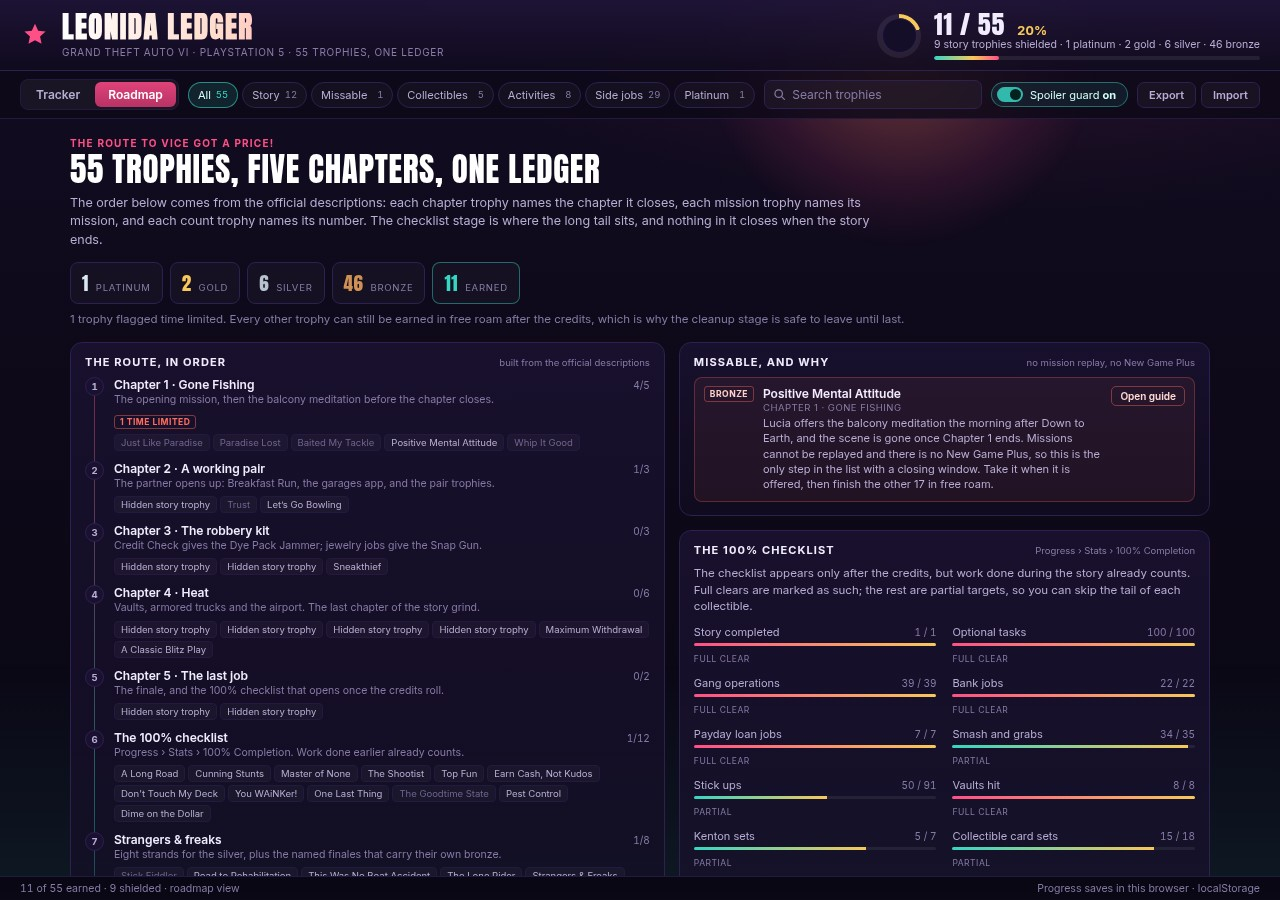
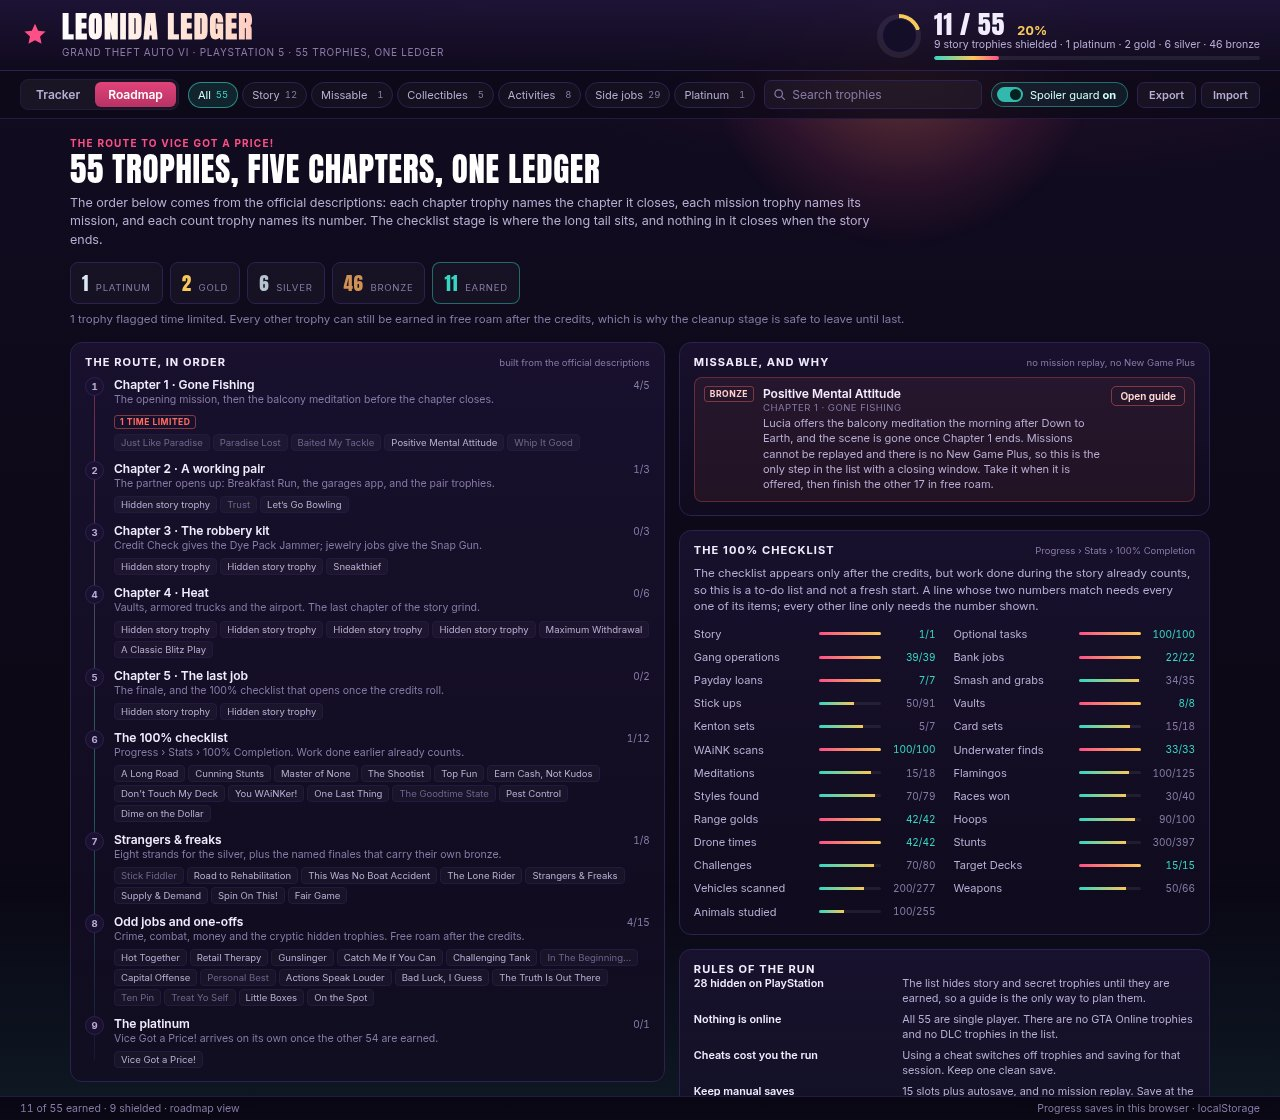
Fit the 100% checklist on one screen and fix its status wording
The checklist drew each target across two lines with a status word underneath, so
25 rows ran past the fold and the panel never showed its own bottom edge. Each
target is now one line: label, count, then a bar that fills the row, which halves
the panel's height. Labels are shortened to the shortest wording that still names
the PowerPyx line so none truncate in the narrow column, and a full row is marked
by the count turning teal rather than by a separate scope tag that could disagree
with the numbers beside it.

Retake the roadmap shot at 1280x1120 so the whole panel is in frame.

diff --git a/app/src/roadmap.js b/app/src/roadmap.js
@@ -123,31 +123,33 @@ export function totals(trophies, earned) {
   };
 }
 
-/** The 100% checklist as the guides state it: PowerPyx's list, plus Push Square's matches. */
+/** The 100% checklist as the guides state it: PowerPyx's list, plus Push Square's matches.
+ *  Labels are the shortest wording that still names the PowerPyx line, because the panel runs in
+ *  a narrow column where a long label truncates. */
 export const CHECKLIST = [
-  { label: 'Story completed', target: 1, total: 1 },
+  { label: 'Story', target: 1, total: 1 },
   { label: 'Optional tasks', target: 100, total: 100 },
   { label: 'Gang operations', target: 39, total: 39 },
   { label: 'Bank jobs', target: 22, total: 22 },
-  { label: 'Payday loan jobs', target: 7, total: 7 },
+  { label: 'Payday loans', target: 7, total: 7 },
   { label: 'Smash and grabs', target: 34, total: 35 },
   { label: 'Stick ups', target: 50, total: 91 },
-  { label: 'Vaults hit', target: 8, total: 8 },
+  { label: 'Vaults', target: 8, total: 8 },
   { label: 'Kenton sets', target: 5, total: 7 },
-  { label: 'Collectible card sets', target: 15, total: 18 },
+  { label: 'Card sets', target: 15, total: 18 },
   { label: 'WAiNK scans', target: 100, total: 100 },
-  { label: 'Underwater discoveries', target: 33, total: 33 },
+  { label: 'Underwater finds', target: 33, total: 33 },
   { label: 'Meditations', target: 15, total: 18 },
-  { label: 'Cocaine flamingos', target: 100, total: 125 },
-  { label: 'Discovered styles', target: 70, total: 79 },
-  { label: 'Unique races won', target: 30, total: 40 },
-  { label: 'Shooting range golds', target: 42, total: 42 },
-  { label: 'Basketball hoops', target: 90, total: 100 },
-  { label: 'Drone time trials', target: 42, total: 42 },
+  { label: 'Flamingos', target: 100, total: 125 },
+  { label: 'Styles found', target: 70, total: 79 },
+  { label: 'Races won', target: 30, total: 40 },
+  { label: 'Range golds', target: 42, total: 42 },
+  { label: 'Hoops', target: 90, total: 100 },
+  { label: 'Drone times', target: 42, total: 42 },
   { label: 'Stunts', target: 300, total: 397 },
   { label: 'Challenges', target: 70, total: 80 },
-  { label: "Bret's Target Decks", target: 15, total: 15 },
-  { label: 'Base model vehicles scanned', target: 200, total: 277 },
-  { label: 'Standard issue weapons', target: 50, total: 66 },
+  { label: 'Target Decks', target: 15, total: 15 },
+  { label: 'Vehicles scanned', target: 200, total: 277 },
+  { label: 'Weapons', target: 50, total: 66 },
   { label: 'Animals studied', target: 100, total: 255 },
 ];

diff --git a/app/style.css b/app/style.css
@@ -521,15 +521,19 @@ body {
 }
 .missable-go:hover { background: rgba(255, 107, 94, 0.18); }
 
-.checklist-grid { display: grid; grid-template-columns: repeat(2, 1fr); gap: 8px 16px; }
-.checklist-item { min-width: 0; }
-.checklist-top { display: flex; align-items: baseline; gap: 8px; }
-.checklist-label { font-size: 11px; color: var(--ink-2); white-space: nowrap; overflow: hidden; text-overflow: ellipsis; }
-.checklist-target { margin-left: auto; font-size: 10px; color: var(--ink-3); font-variant-numeric: tabular-nums; }
-.checklist-track { height: 3px; border-radius: 2px; background: rgba(255, 255, 255, 0.07); margin: 4px 0 3px; overflow: hidden; }
+.checklist-grid { display: grid; grid-template-columns: repeat(2, 1fr); gap: 5px 18px; }
+/* One line per target: name, count, then a bar that fills the rest of the row. */
+.checklist-item {
+  min-width: 0; display: grid; align-items: center;
+  grid-template-columns: minmax(0, 1fr) 62px 46px;
+  gap: 8px; font-size: 11px; line-height: 1.65;
+}
+.checklist-label { color: var(--ink-2); white-space: nowrap; overflow: hidden; text-overflow: ellipsis; }
+.checklist-track { height: 3px; border-radius: 2px; background: rgba(255, 255, 255, 0.07); overflow: hidden; }
 .checklist-track i { display: block; height: 100%; background: linear-gradient(90deg, var(--teal), var(--gold)); }
 .checklist-item.is-full .checklist-track i { background: linear-gradient(90deg, var(--sunset), var(--gold)); }
-.checklist-scope { font-size: 8.5px; letter-spacing: 0.06em; text-transform: uppercase; color: var(--ink-3); }
+.checklist-target { font-size: 10px; color: var(--ink-3); font-variant-numeric: tabular-nums; text-align: right; }
+.checklist-item.is-full .checklist-target { color: var(--teal); }
 
 .rules-list { gap: 6px; }
 .rule { display: flex; gap: 8px; font-size: 10.8px; line-height: 1.4; color: var(--ink-2); }

diff --git a/app/src/main.js b/app/src/main.js
@@ -142,7 +142,7 @@ function buildChecklist() {
     el(
       'p',
       'panel-lede',
-      'The checklist appears only after the credits, but work done during the story already counts. Full clears are marked as such; the rest are partial targets, so you can skip the tail of each collectible.',
+      'The checklist appears only after the credits, but work done during the story already counts, so this is a to-do list and not a fresh start. A line whose two numbers match needs every one of its items; every other line only needs the number shown.',
     ),
   );
 
@@ -152,18 +152,14 @@ function buildChecklist() {
     // instead of hand-typing a scope that can disagree with the target it sits beside.
     const full = row.target >= row.total;
     const item = el('div', `checklist-item ${full ? 'is-full' : 'is-part'}`);
-    const top = el('div', 'checklist-top');
-    top.append(el('span', 'checklist-label', row.label));
-    top.append(
-      el('span', 'checklist-target', `${row.target} / ${row.total}`),
-    );
-    item.append(top);
+    item.append(el('span', 'checklist-label', row.label));
     const track = el('div', 'checklist-track');
     const fill = el('i');
     fill.style.width = `${Math.round((row.target / row.total) * 100)}%`;
     track.append(fill);
     item.append(track);
-    item.append(el('span', 'checklist-scope', full ? 'full clear' : 'partial'));
+    item.append(el('span', 'checklist-target', `${row.target}/${row.total}`));
+    item.title = full ? `${row.label}: needs every one of the ${row.total}` : `${row.label}: ${row.target} of ${row.total} is enough for the checklist`;
     grid.append(item);
   }
   wrap.append(grid);
